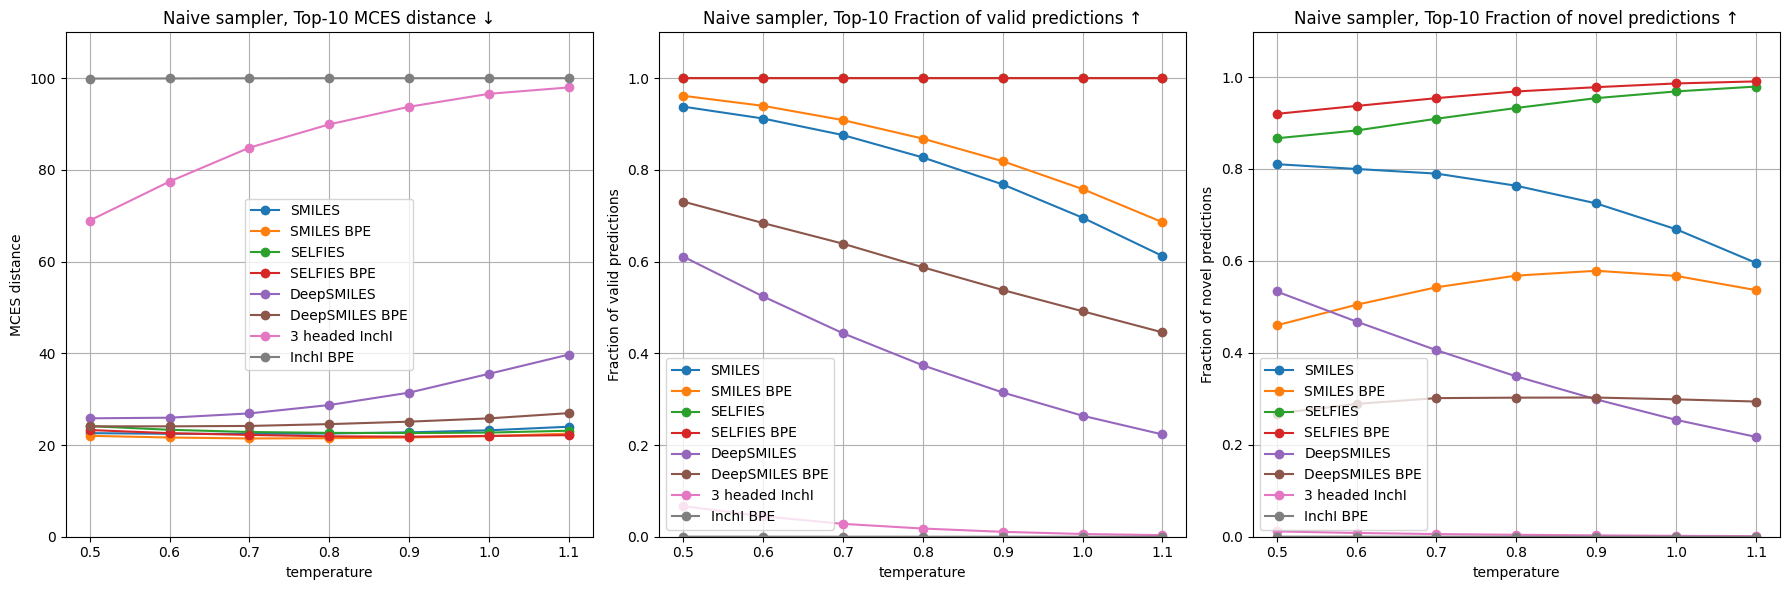
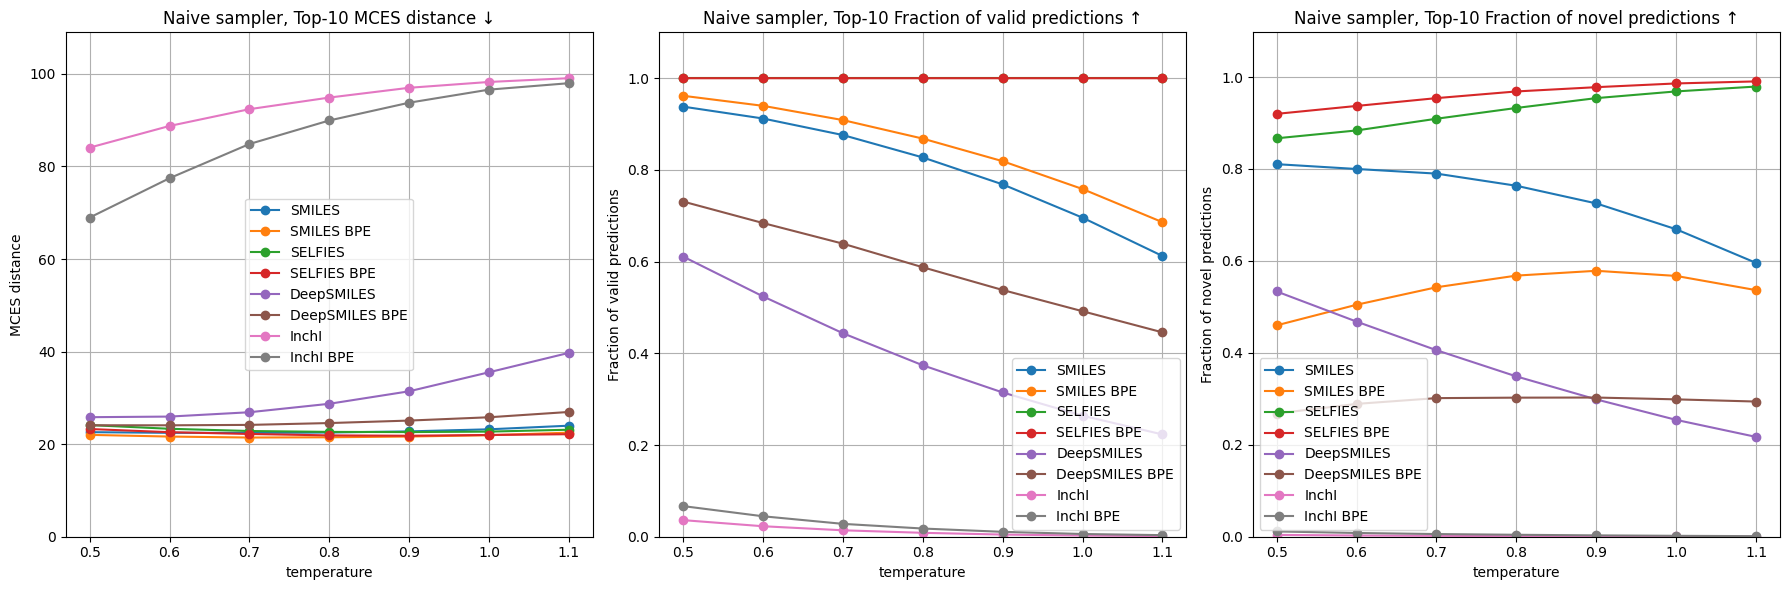
results

diff --git a/paper/chapters/results.tex b/paper/chapters/results.tex
@@ -160,6 +160,7 @@ Lastly, because the vocabulary size of the 118M tokenizer reached the algorithm'
 
 Figure \ref{fig:bpe} shows the greedy top-1 and best naive top-10 samplers results of the models trained with these different tokenizers.
 A new evaluation metric, the fraction of novel predictions, can be seen in the third plot.
+It shows the fraction of valid predictions that are not present in the training set.
 This measures how much the model is able to predict unseen SMILES as a metric to measure overfitting.
 The complete temperature search for the naive top-10 sampler can be found in the appendix figure \ref{fig:bpe_appendix}.
 
@@ -242,7 +243,55 @@ As usual, the full naive samplers top-10 temperature search results can be found
 
 In contrast to the previous augmentation method, the spectral augmentation does seem to help the de novo SMILES model from MassSpecGym.
 While there are no significant improvements looking at the MCES distance, the $20\%$ augmented model is able to predict more valid and especially more novel molecules.
-Too much augmentation again hinders performance as the original data gets drowned in augmented data.
+Too much augmentation, again, hinders performance as the original data gets drowned in augmented data.
+
 This method of augmentation, when moderately used, clearly seems to help the model be less prone to overfitting, as the top-1 greedy sampler is able to predict more than $20\%$ more novel molecules. 
 
 \section{Molecular representations benchmark}
+
+Different molecular representations can be used to predict the structure of a molecule.
+This experiment benchmarks the string-based molecular representations for the de novo structure prediction task.
+All models were trained with the same hyperparameters.
+Because tokenizers with vocabulary pre-computed with \ac{BPE} have shown to influence performance, for each molecular representation two models were trained.
+One model used a Byte-pair encoded tokenizer, the other used a basic character tokenizer.
+For all these models, a greedy sampler was used to evaluate the top-1 setting, while a temperature search was performed for the top-10 naive sampler.
+Each molecular representation was thus evaluated four times.
+The full results for the naive top-10 evaluation with the different temperatures can be found in the appendix figure \ref{fig:representations_appendix}.
+Figure \ref{fig:representations} shows the MCES distance, fraction of valid predictions and fraction of novel predictions of the models trained on different molecular representations.
+
+\begin{figure}[h]
+    \centering
+    \includegraphics[width=1.0\textwidth]{figures/results/representations.png}
+    \caption{Evaluation on the validation set of models trained with different molecular representations}
+    \label{fig:representations}
+\end{figure}
+
+For the top-1 evaluation setting, SMILES outperforms the other molecular representations according to the MCES distance seen in figure \ref{fig:representations}.
+SMILES and SELFIES seem to perform the best with top-10 evaluation, with their MCES distances being almost the same.
+The models trained with SELFIES predicted the most valid predictions, as this is an inherent property of SELFIES, but noticeably also predicted the most novel molecules.
+This indicates that the SELFIES models are less prone to overfitting on the training labels.
+
+While DeepSMILES is closely related to SMILES with only slight modifications to reduce the chance of invalid predictions through syntax errors, it noticeably performs worse than SMILES, even having less valid predictions with top-10 evaluation.
+The models trained using DeepSMILES are thus more prone to chemical errors as (almost) no syntax errors are possible.
+An example of a prediction with a chemical error made by a DeepSMILES model can be seen in figure \ref{fig:invalid_pred}, where five bonds on one carbon atom are present, which is not possible in a stable environment.
+The improvements DeepSMILES introduces over SMILES to combat invalid predictions for autoregressive generation seem to have the opposite results for de novo structure prediction, by introducing more chemical errors.
+\begin{figure}[h]
+    \centering
+    \includegraphics[width=0.5\textwidth]{figures/results/invalid_pred.JPG}
+    \caption{2-dimensional representation of prediction with chemical error (SMILES: C1=CC=C(C(=C1C2=CC(=O)(C3=C(O2)C=CC(=C3O)O)O)O)O )}.
+    \label{fig:invalid_pred}
+\end{figure}
+
+Out of the four representations benchmarked, InchI clearly shows to be the least fit for autoregressive generation, with most of its predictions being invalid.
+This is caused by the fact that InchI has a strict layered structure to ensure its desired properties, which the models struggle to predict correctly.
+When the model does succeed to predict an InchI with a valid syntax it almost always was present in the training set, showing heavy signs of overfitting.
+To help the model understand the different layers of the InchI representation, a model was trained with a different decoder for each relevant layer. 
+The results for this model can be found in the appendix figure \ref{fig:layered_inchi}.
+This model was only able to predict a few valid predictions and struggled to synchronize the outputs of the different decoders.
+The poor performance of InchI for this task is expected as the molecular representation was not designed for structure prediction.
+
+The same conclusions from the \ac{BPE} experiment can be drawn for this experiment, where the use of a pre-computed vocabulary using \ac{BPE} improves the MCES distance and number of valid predictions but makes the model more prone to overfitting by having less novel predictions.
+Only for the SELFIES top-10 evaluation, using \ac{BPE} also improves the number of novel predictions.
+
+Overall, in this experiment, SMILES shows to be the best molecular representation when a top-1 evaluation is used.
+Taking the amount of novel predictions into account, SELFIES performs the best for top-10 evaluation.

diff --git a/paper/chapters/Methods.tex b/paper/chapters/Methods.tex
@@ -192,7 +192,7 @@ This way the amount of de novo predictions can be accurately measured with diffe
 Multiple models were trained on the following molecular representations: SMILES, DeepSMILES, SELFIES and InchI.
 For each of the four representations a model was trained using a tokenizer pre-computed with \ac{BPE} on the unlabeled 4 million molecules dataset,
 mimicking the implementation from the de novo SMILES model from MassSpecGym. All models used the hyperparameters from this model.
-For SMILES, DeepSMILES and SELFIES, a model was also trained using a tokenizer without \ac{BPE}.
+For these representation, a model was also trained using a tokenizer without \ac{BPE}.
 
 To respect the more complex composition of InchI, a model with multiple decoders was created to predict the different layers of an InchI string.
 Because only the first three layers encode the 2d composition of a molecule, and we are not interested in 3d composition information such as stereochemistry,

diff --git a/paper/chapters/discussion.tex b/paper/chapters/discussion.tex
@@ -25,3 +25,10 @@
 
 
 \section{Molecular representations benchmark}
+
+Models not optimized for hyperparameters
+samplers chosen based of SMILES results
+
+3 headed inchi could be improved by supplying the output of the previous decoder to the next, to ensure they know what molecule it is trying to predict
+
+SELFIES can benefit from BPE because some tokens have different meaning in context of rings and groups, without the model overfitting

diff --git a/paper/chapters/appendix.tex b/paper/chapters/appendix.tex
@@ -90,3 +90,10 @@ Figure \ref{fig:top-p_zoomed_appendix} shows that the top-p sampler results do n
     \caption{Top-10 Naive sampler temperature search representations experiment results}
     \label{fig:representations_appendix}
 \end{figure}
+
+\begin{figure}[h]
+    \centering
+    \includegraphics[width=1.0\textwidth]{figures/appendix/layered_inchi.png}
+    \caption{}
+    \label{fig:layered_inchi}
+\end{figure}
